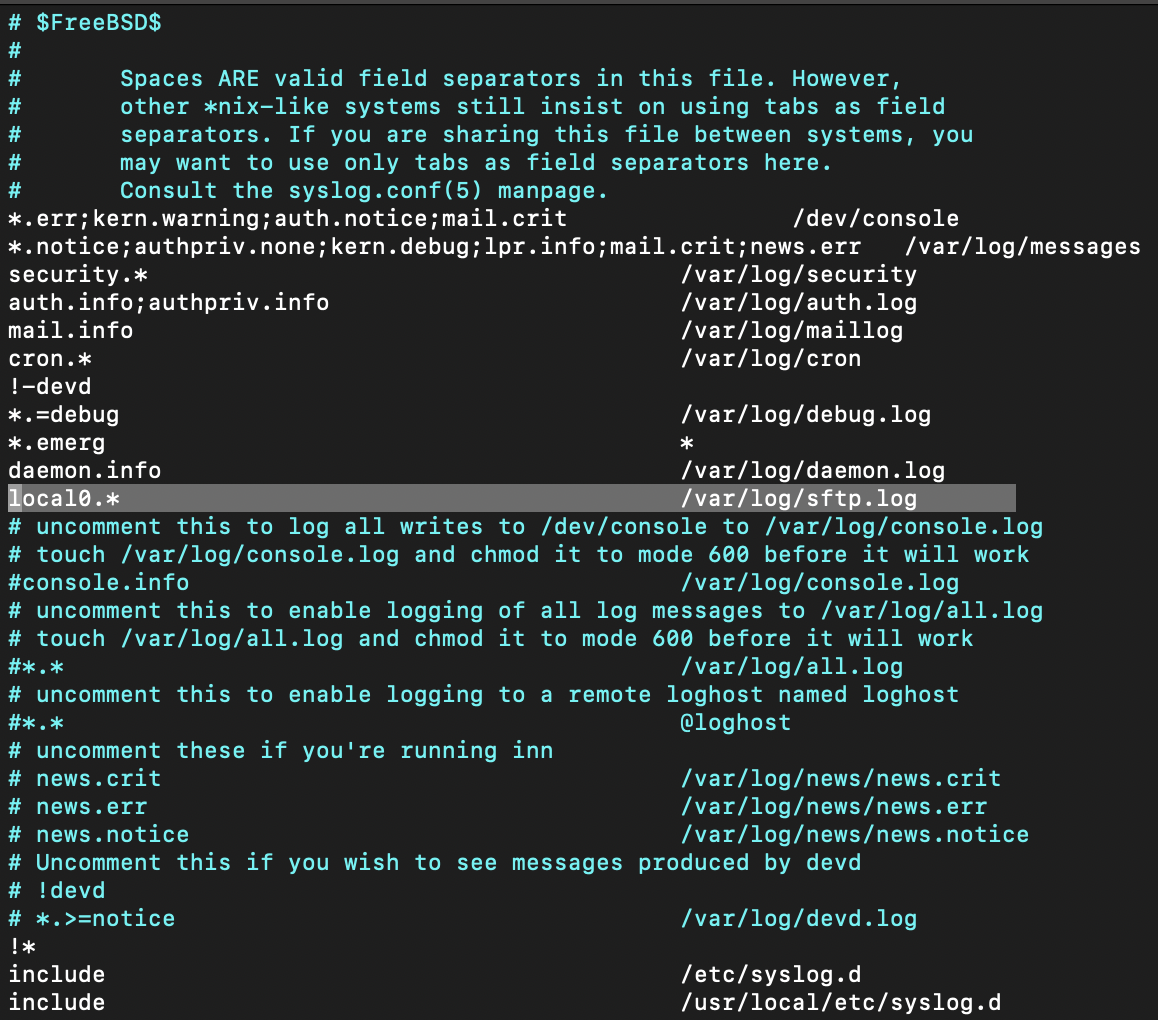
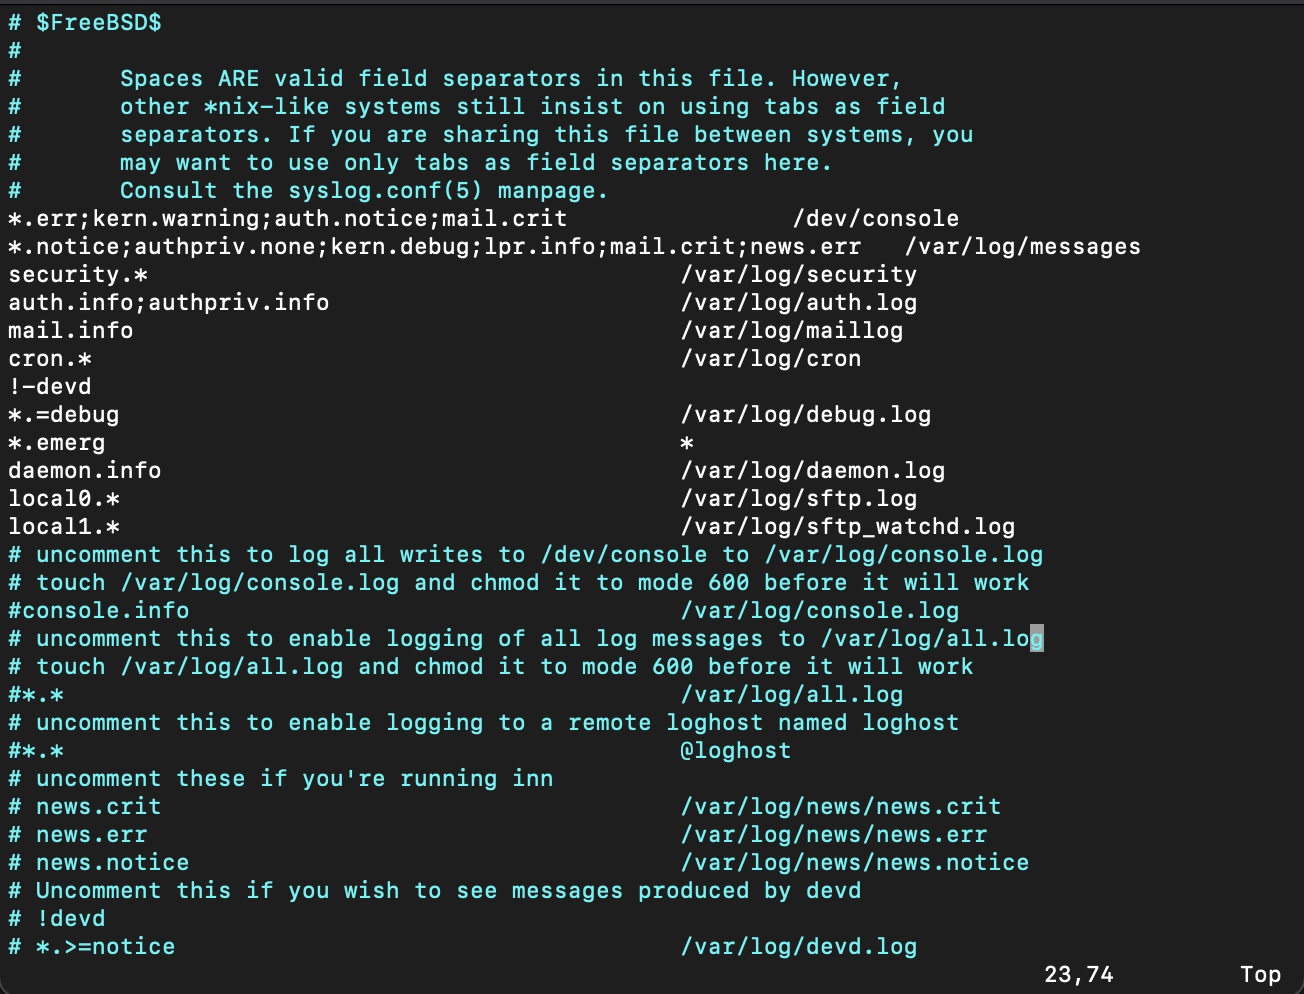
11/9 21:00

diff --git a/HW3/sftp_watchd.py b/HW3/sftp_watchd.py
@@ -1,22 +1,48 @@
-#!/usr/bin/env python3
+#!/usr/local/bin/python3.9
 
 import os
-import shutil
+import pwd
 import time
+import logging
+import subprocess
 from watchdog.observers import Observer
 from watchdog.events import FileSystemEventHandler
+
 
 class ExeFileHandler(FileSystemEventHandler):
     def on_created(self, event):
         if event.is_directory:
             return None
         elif event.src_path.endswith('.exe'):
-            shutil.move(event.src_path, '/home/sftp/hidden/.exe/')
+            file_stats = os.stat(event.src_path)
+            uid = file_stats.st_uid
+            upload_user = pwd.getpwuid(uid).pw_name
+            # logging.info('%s violate file detected. Uploaded by %s.', event.src_path, upload_user)
+            subprocess.run(['mv', event.src_path, '/home/sftp/hidden/.exe/'])
+            subprocess.run(['echo', event.src_path, " violate file detected. Uploaded by ", upload_user, "."], '| logger -p local1.warning')
+    def move_existing_files(self, directory):
+        for root, dirs, files in os.walk(directory):
+            for file in files:
+                if file.endswith('.exe'):
+                    file_path = os.path.join(root, file)
+                    file_stats = os.stat(file_path)
+                    uid = file_stats.st_uid
+                    upload_user = pwd.getpwuid(uid).pw_name
+                    # logging.info('%s violate file detected. Uploaded by %s.', file_path, upload_user)
+                    subprocess.run(['mv', file_path, '/home/sftp/hidden/.exe/'])
+                    subprocess.run(['echo', file_path, " violate file detected. Uploaded by ", upload_user, "."], '| logger -p local1.warning')
+
+
 
 if __name__ == "__main__":
+    with open('/var/run/sftp_watchd.pid', 'w') as f:
+        f.write(str(os.getpid()))
+
+    # Start the observer
     event_handler = ExeFileHandler()
+    event_handler.move_existing_files("/home/sftp/public/")
     observer = Observer()
-    observer.schedule(event_handler, path='/home/sftp/public', recursive=False)
+    observer.schedule(event_handler, path='/home/sftp/public/', recursive=False)
     observer.start()
     try:
         while True:
@@ -24,3 +50,12 @@ if __name__ == "__main__":
     except KeyboardInterrupt:
         observer.stop()
     observer.join()
+
+    # logging
+    logging.basicConfig(
+        filename='/var/log/sftp_watchd.log', 
+        level=logging.INFO, 
+        format='%(asctime)s %(hostname)s sftp_watchd: %(message)s', 
+        datefmt='%m/%d/%Y %I:%M:%S %p')
+    
+    os.remove('/var/run/sftp_watchd.pid')
